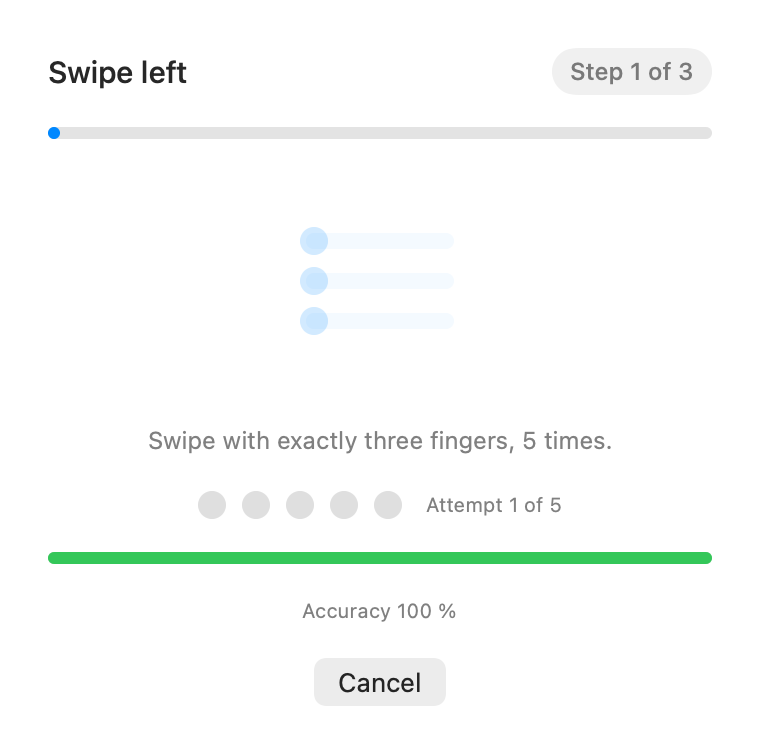
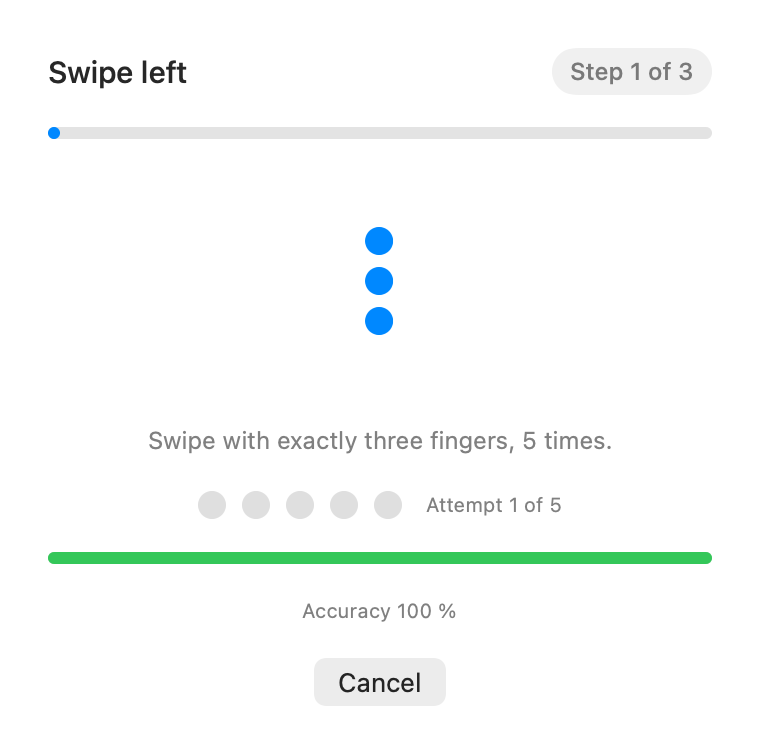
v0.2.2: shift+up swipe = center-third (double-up analog)

Changed region(s): [[0.3934, 0.305, 0.4539, 0.4576], [0.4842, 0.305, 0.5145, 0.4576]]

diff --git a/Tests/TilerCoreTests/ShiftModifierTests.swift b/Tests/TilerCoreTests/ShiftModifierTests.swift
@@ -30,10 +30,16 @@ import Testing
         #expect(sim.actions == [GestureAction(direction: .right, nextDisplay: false, thirdWidth: false)])
     }
 
-    @Test func shiftWithUpIsIgnoredPlainMaximize() {
+    @Test func shiftUpSwipeEmitsThirdWidthCenterThird() {
         var sim = Sim()
         sim.performValidSwipe((dx: 0, dy: 0.15), shift: true)
-        #expect(sim.actions == [GestureAction(direction: .up, nextDisplay: false, thirdWidth: false)])
+        #expect(sim.actions == [GestureAction(direction: .up, nextDisplay: false, thirdWidth: true)])
+    }
+
+    @Test func cmdUpStillEmitsNothingEvenWithShift() {
+        var sim = Sim()
+        sim.performValidSwipe((dx: 0, dy: 0.15), cmd: true, shift: true)
+        #expect(sim.actions.isEmpty)
     }
 
     // Old golden fixtures predate thirdWidth: decoding must default it to false.

diff --git a/Sources/TilerCore/GestureRecognizer.swift b/Sources/TilerCore/GestureRecognizer.swift
@@ -217,8 +217,9 @@ public final class GestureRecognizer {
         case .down:
             return nil // deliberately not implemented
         case .up:
-            // ⇧ is meaningless for maximize and is ignored (spec).
-            return cmdHeld ? nil : GestureAction(direction: .up, nextDisplay: false)
+            // ⇧+up = center-third (the double-press ↑ analog); ⌘+up stays silent.
+            return cmdHeld ? nil : GestureAction(direction: .up, nextDisplay: false,
+                                                 thirdWidth: shiftHeld)
         case .left:
             return GestureAction(direction: .left, nextDisplay: cmdHeld, thirdWidth: shiftHeld)
         case .right:

diff --git a/Sources/Tiler/AppDelegate.swift b/Sources/Tiler/AppDelegate.swift
@@ -5,7 +5,7 @@ import TilerSystem
 
 @MainActor
 final class AppDelegate: NSObject, NSApplicationDelegate, NSMenuDelegate {
-    static let version = "0.2.1"
+    static let version = "0.2.2"
 
     private var statusItem: NSStatusItem?
     private var touchStream: TouchStream?
@@ -228,7 +228,7 @@ final class AppDelegate: NSObject, NSApplicationDelegate, NSMenuDelegate {
                 ? .rightThird(nextDisplay: action.nextDisplay)
                 : .rightHalf(nextDisplay: action.nextDisplay)
         case .up:
-            command = .maximize
+            command = action.thirdWidth ? .centerThird : .maximize
         }
         execute(command)
     }

diff --git a/Sources/Tiler/GuideWindow.swift b/Sources/Tiler/GuideWindow.swift
@@ -84,6 +84,7 @@ enum GuideContent {
         GestureRow(direction: .up, cmd: false, action: "Maximize"),
         GestureRow(direction: .left, cmd: false, shift: true, action: "Left third"),
         GestureRow(direction: .right, cmd: false, shift: true, action: "Right third"),
+        GestureRow(direction: .up, cmd: false, shift: true, action: "Full height, centered, ⅓ width"),
         GestureRow(direction: .left, cmd: true, action: "Left half on the next display"),
         GestureRow(direction: .right, cmd: true, action: "Right half on the next display"),
     ]

diff --git a/openspec/changes/add-shift-up-third/proposal.md b/openspec/changes/add-shift-up-third/proposal.md
@@ -1,0 +1,14 @@
+# Change: add-shift-up-third
+
+## Why
+Owner follow-up to add-thirds-lock-help: ⇧ + swipe-up was left as plain maximize;
+it should mirror the double Ctrl+Shift+↑ hotkey — full height, centered, ⅓ width.
+
+## What Changes
+⇧ held during a confirmed up-swipe emits a third-width up action routed to
+center-third. ⌘+up (with or without ⇧) still emits nothing.
+
+| Capability | Delta |
+|---|---|
+| `gestures` | MODIFIED — ⇧+up → center-third |
+| `app-shell` | cheat sheet row |

diff --git a/openspec/changes/add-shift-up-third/specs/gestures/spec.md b/openspec/changes/add-shift-up-third/specs/gestures/spec.md
@@ -1,0 +1,13 @@
+# gestures — delta for add-shift-up-third
+
+## MODIFIED Requirements
+
+#### Requirement: Direction mapping and modifiers (⇧+up)
+
+With ⇧ held, up SHALL emit a third-width up action (center-third: full height,
+centered, ⅓ width — the double-press ↑ analog). ⌘ with up SHALL still emit nothing,
+regardless of ⇧.
+
+##### Scenario: Shift-held up swipe
+- WHEN a valid 3-finger up swipe confirms while ⇧ is physically held
+- THEN the window goes to full height, horizontally centered, ⅓ of the screen width

diff --git a/openspec/specs/gestures/spec.md b/openspec/specs/gestures/spec.md
@@ -109,8 +109,9 @@ apply live, but never mid-gesture (taken up from the next clean idle state).
 On confirmation the recognizer SHALL emit exactly one action, snapshotting ⌘ and ⇧
 at confirmation time: left → left half, right → right half, up → maximize. With ⇧
 held, left/right emit third-width actions instead of halves. With ⌘ held, left/right
-target the next display (⇧ and ⌘ combine). ⌘ with up SHALL emit nothing; ⇧ with up
-is ignored (plain maximize).
+target the next display (⇧ and ⌘ combine). With ⇧ held, up emits a third-width up
+action (center-third — the double-press ↑ analog). ⌘ with up SHALL emit nothing,
+regardless of ⇧.
 
 ##### Scenario: Cmd-held three-finger swipe right
 - WHEN a valid 3-finger right swipe confirms while Cmd is physically held
@@ -119,6 +120,10 @@ is ignored (plain maximize).
 ##### Scenario: Shift-held right swipe
 - WHEN a valid 3-finger right swipe confirms while ⇧ is physically held
 - THEN the window tiles to the right third of the current screen
+
+##### Scenario: Shift-held up swipe
+- WHEN a valid 3-finger up swipe confirms while ⇧ is physically held
+- THEN the window goes to full height, horizontally centered, ⅓ of the screen width
 
 ##### Scenario: Shift+Cmd left swipe
 - WHEN a valid left swipe confirms with both ⇧ and ⌘ held

diff --git a/openspec/project.md b/openspec/project.md
@@ -65,5 +65,6 @@ startup flow v2), `2026-07-05-unify-about-guide` (single-entry unified window,
 marketing About, calibration progress, cross-display fix, tabbed Settings),
 `2026-07-05-stabilize-menu` (final menu, CPU-budget fix + honest measurement,
 no-scroll layout, release 0.2.0 tooling), `2026-07-05-add-thirds-lock-help`
-(⇧-thirds gestures, ⌃A lock screen, Help label). Specs in `openspec/specs/` are
-current truth. Released: v0.2.1 (GitHub release with zip).
+(⇧-thirds gestures, ⌃A lock screen, Help label), `2026-07-05-add-shift-up-third`
+(⇧+up → center-third). Specs in `openspec/specs/` are current truth.
+Released: v0.2.2 (GitHub release with zip).

diff --git a/openspec/changes/add-shift-up-third/tasks.md b/openspec/changes/add-shift-up-third/tasks.md
@@ -1,0 +1,3 @@
+# Tasks — add-shift-up-third
+- [x] 1.1 TDD: ⇧+up → thirdWidth up action; route → centerThird; ⌘(+⇧)+up unchanged.
+- [x] 1.2 Guide/README rows; merge, archive, release v0.2.2.

diff --git a/README.md b/README.md
@@ -24,7 +24,7 @@ your displays.
 | ⌘⌃⇧← / ⌘⌃⇧→ | halves on the next display |
 | ⌃A | lock the screen |
 | 3-finger swipe ← / → / ↑ | left half / right half / maximize |
-| ⇧ + 3-finger swipe ← / → | left / right third |
+| ⇧ + 3-finger swipe ← / → / ↑ | left third / right third / centered third |
 | ⌘ + 3-finger swipe ← / → | halves on the next display (⇧ combines: thirds) |
 
 Swipe-down, two- and four-finger movements do nothing. The full reference lives